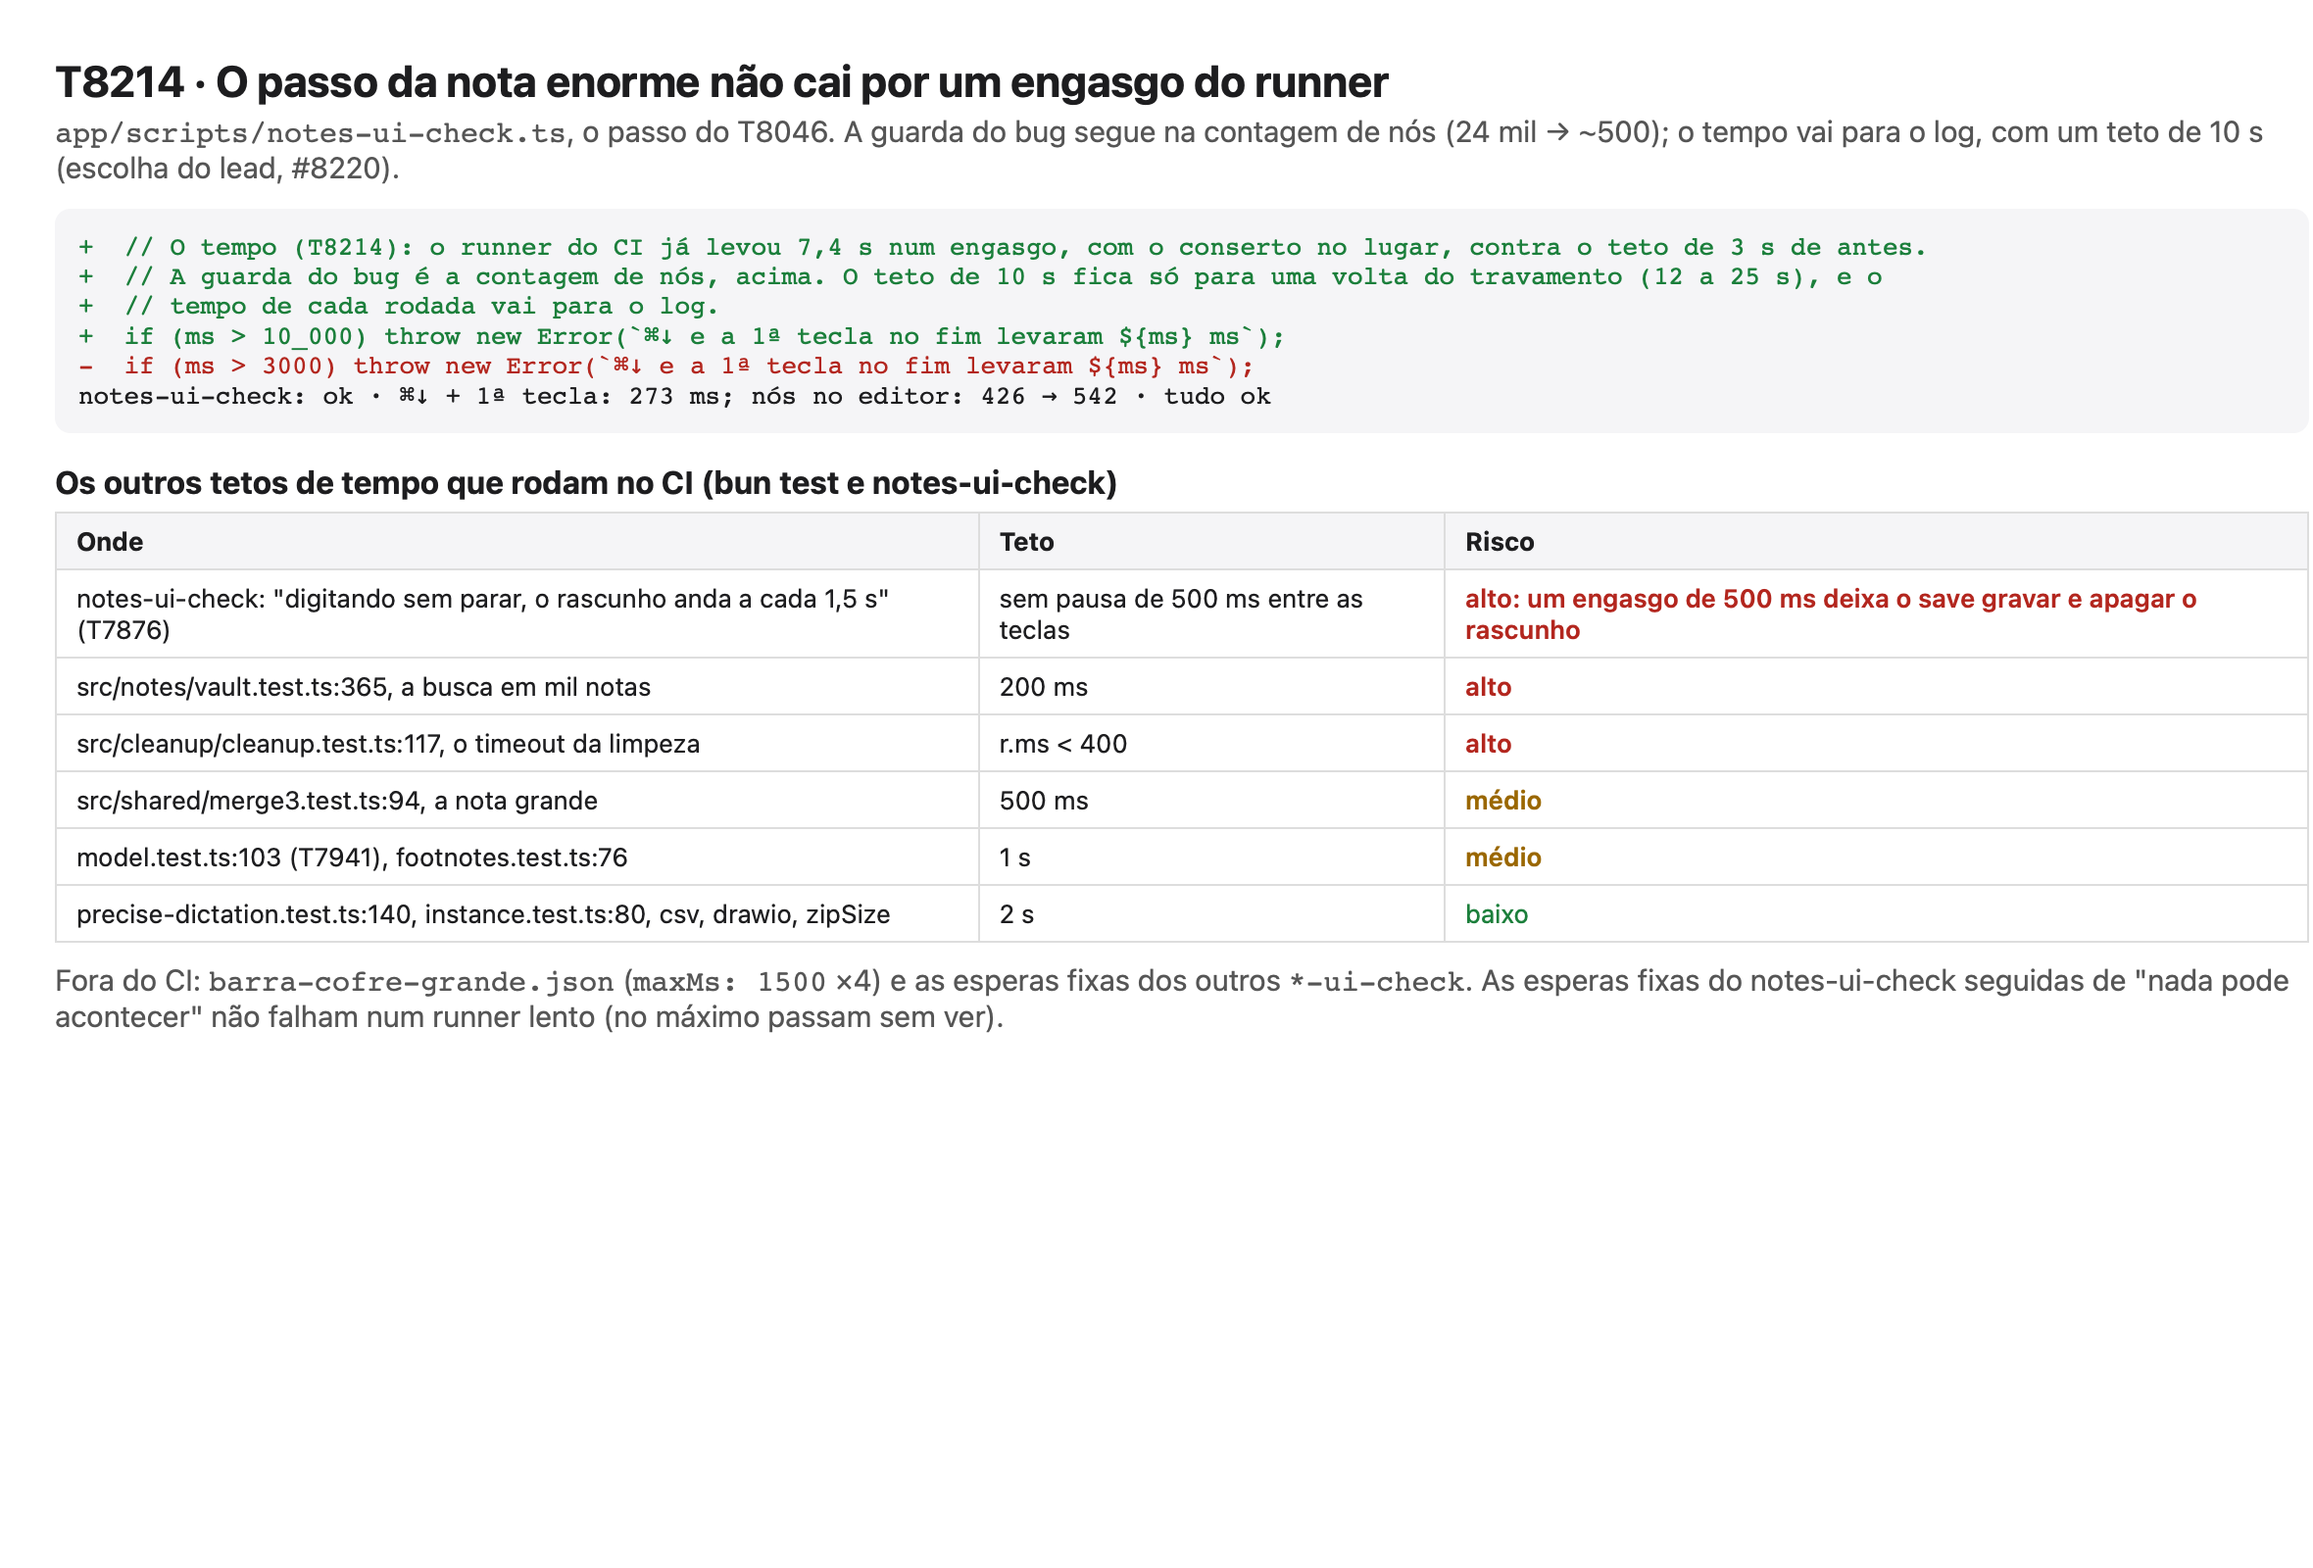
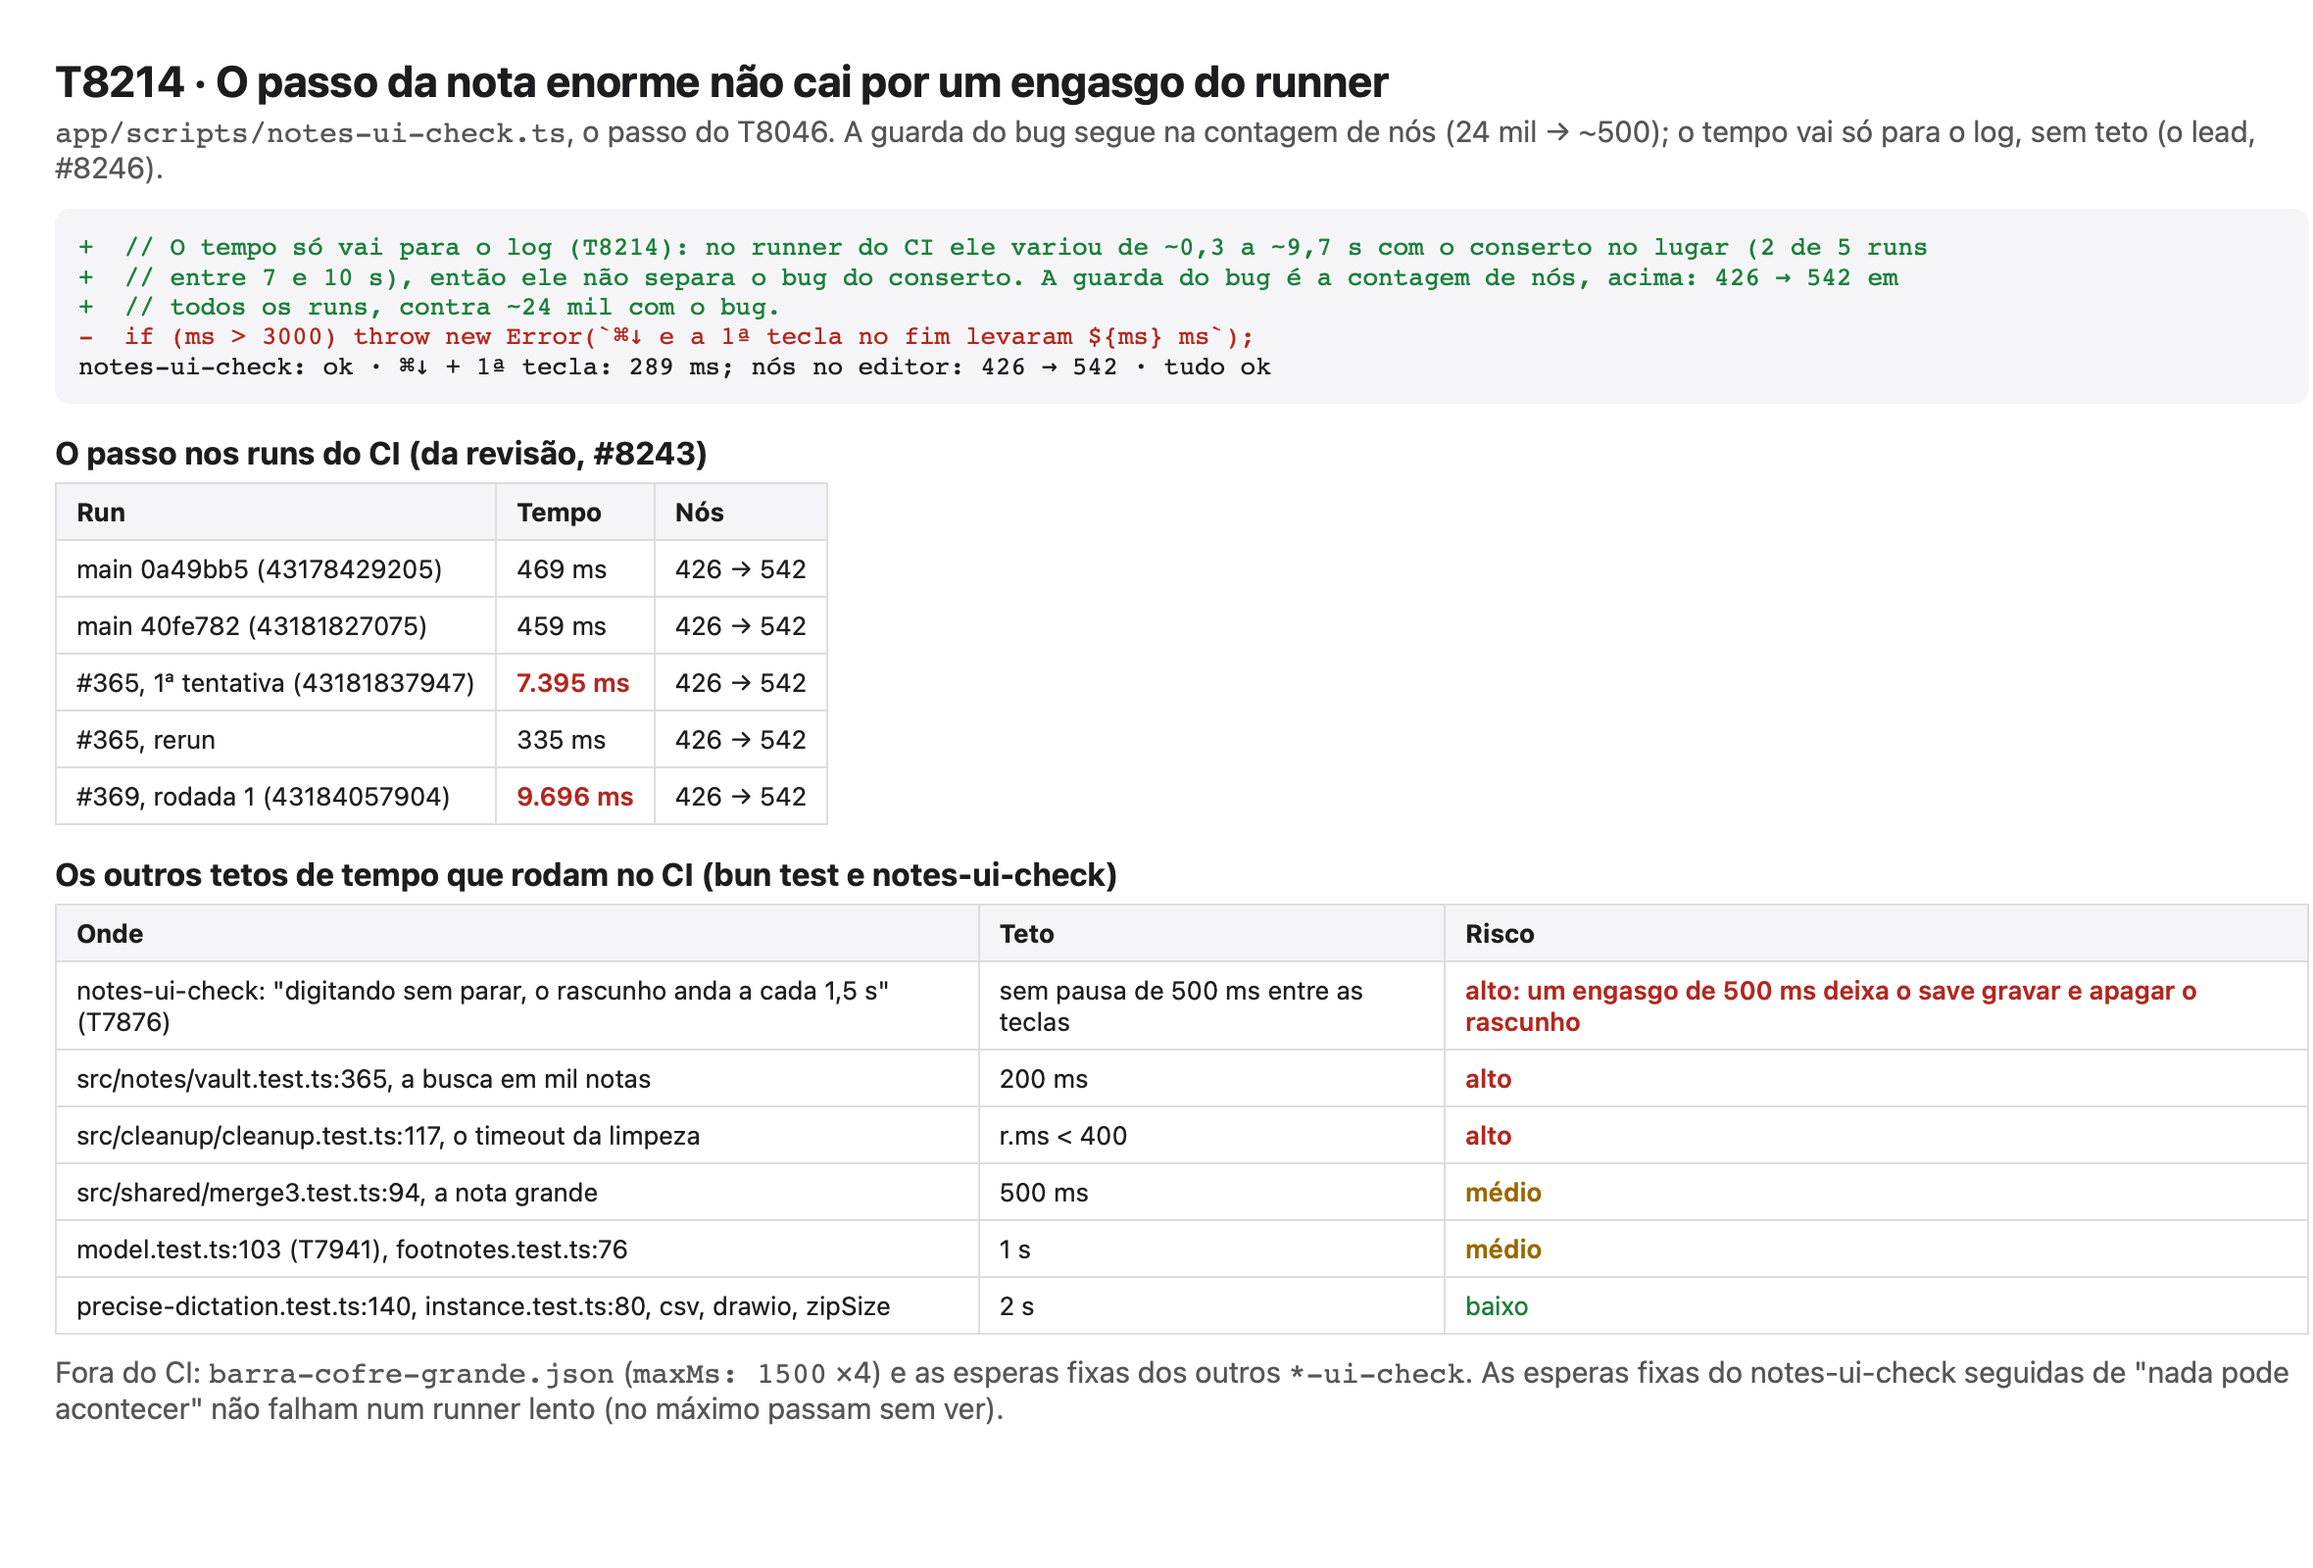
Notas: o passo da nota enorme sem teto de tempo, só o log (revisão do T8214)
No runner do CI, o passo levou de ~0,3 a ~9,7 s com o conserto no lugar
(2 de 5 runs entre 7 e 10 s): o tempo não separa o bug do conserto. A guarda
fica na contagem de nós (426 → 542 em todos os runs, ~24 mil com o bug), e
o tempo vai só para o log (o lead, #8246).

diff --git a/app/scripts/notes-ui-check.ts b/app/scripts/notes-ui-check.ts
@@ -820,10 +820,9 @@ await step("nota de um parágrafo enorme com links: ir ao fim e digitar lá não
   const after = await nodes();
   // O teto do DOM é o que não depende do navegador: com o widget, eram ~24 mil nós.
   if (before > 5000 || after > 5000) throw new Error(`o editor pôs ${before} → ${after} nós na página`);
-  // O tempo (T8214): o runner do CI já levou 7,4 s num engasgo, com o conserto no lugar, contra o teto de 3 s de antes.
-  // A guarda do bug é a contagem de nós, acima. O teto de 10 s fica só para uma volta do travamento (12 a 25 s), e o
-  // tempo de cada rodada vai para o log.
-  if (ms > 10_000) throw new Error(`⌘↓ e a 1ª tecla no fim levaram ${ms} ms`);
+  // O tempo só vai para o log (T8214): no runner do CI ele variou de ~0,3 a ~9,7 s com o conserto no lugar (2 de 5 runs
+  // entre 7 e 10 s), então ele não separa o bug do conserto. A guarda do bug é a contagem de nós, acima: 426 → 542 em
+  // todos os runs, contra ~24 mil com o bug.
   const tail = await page.evaluate(() => {
     const doc = (document.querySelector(".cm-content") as any).cmTile.view.state.doc;
     return doc.sliceString(Math.max(0, doc.length - 30));
